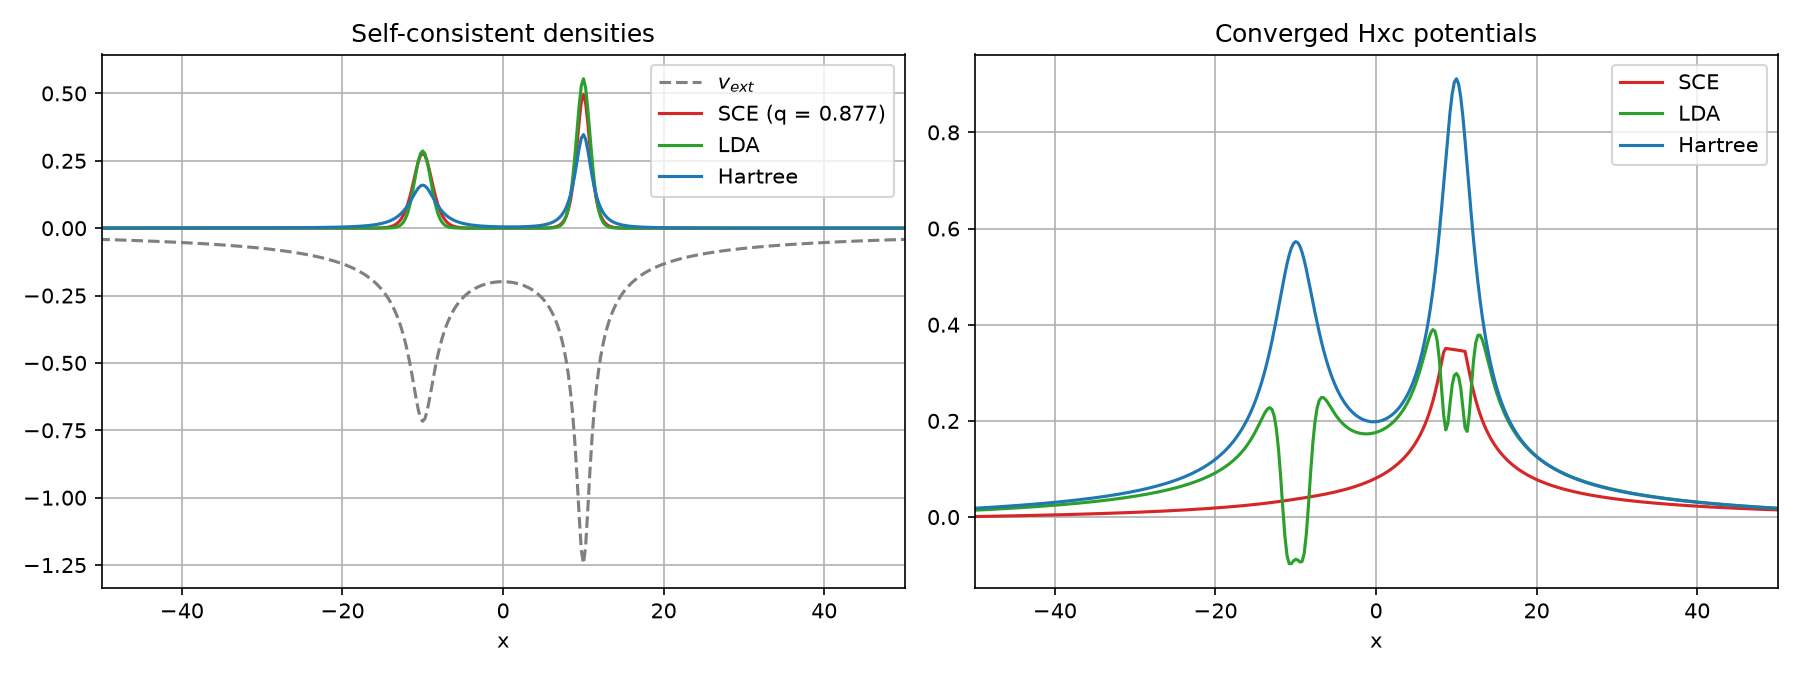
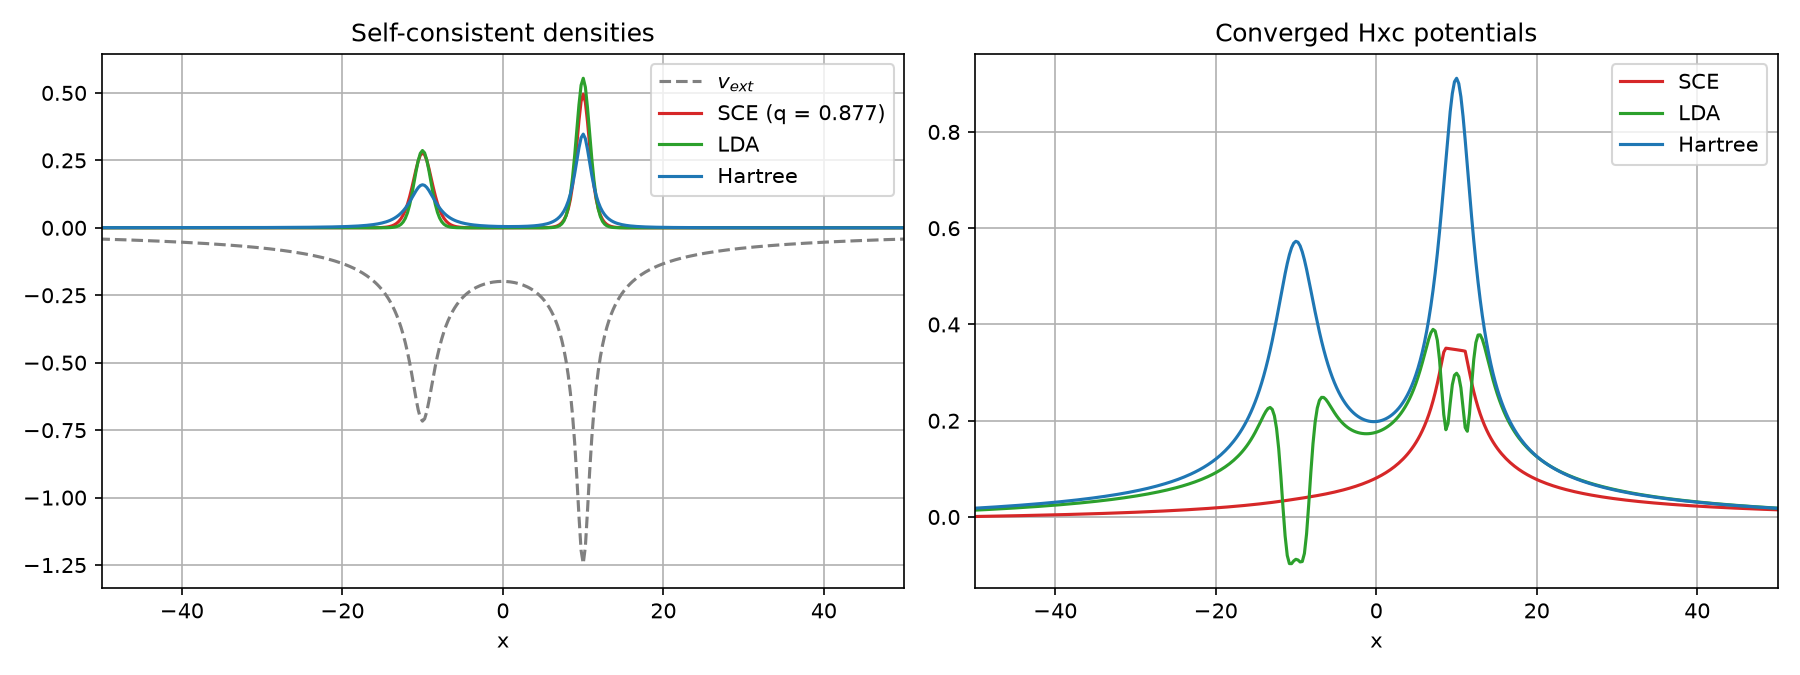
move setup to config.toml

diff --git a/main_fixed.py b/main_fixed.py
@@ -31,15 +31,19 @@ The stable formulation used here:
 The weakly-correlated functionals (LDA, Hartree, EXX) go through a standard
 aufbau DIIS SCF with damping and a level shift instead.
 
-The script runs every functional in `functionals`, prints a comparison
-table and overlays the densities and Hxc potentials in one figure
-(ks_comparison.png).
+All settings live in config.toml next to this script: geometry (per-well
+softening and depth, so homo- and heteronuclear setups are both one edit
+away), grid, e-e interaction and the list of Hxc functionals to run
+("SCE", "LDA", "Hartree", "EXX").  The script runs every requested
+functional, prints a comparison table and overlays the densities and Hxc
+potentials in one figure (ks_comparison.png).
 
-Run:  python main_fixed.py [--show]
+Run:  python main_fixed.py [other_config.toml] [--show]
 """
 
 import os
 import sys
+import tomllib
 
 import numpy as np
 import scipy.linalg
@@ -54,52 +58,105 @@ import OneDKSSCE
 np.set_printoptions(precision=6)
 
 # ---------------------------------------------------------------------------
-# Parameters
+# Configuration (config.toml)
 # ---------------------------------------------------------------------------
-nbPts = 600                     # number of grid points
-b = 0.6                         # softening parameter of the e-e interaction
-wint = OneDKSSCE.softCoulomb    # softCoulomb / absCoulomb / wireCoulomb
-R = 10.0                        # nuclei at -R and +R
-L = 8 * (R + 10)                # box length
-site_softening = [2.25, 0.7]    # softening of the external wells at -R and +R
-N = 2                           # electrons
-functionals = ("SCE", "LDA", "Hartree")   # runs each; "EXX" also available
+AVAILABLE_FUNCTIONALS = ("SCE", "LDA", "Hartree", "EXX")
+AVAILABLE_INTERACTIONS = ("softCoulomb", "absCoulomb", "wireCoulomb")
+DEFAULT_CONFIG = os.path.join(os.path.dirname(os.path.abspath(__file__)),
+                              "config.toml")
+
 functional = "SCE"              # current functional (set by main)
 
-max_cycle = 300                 # inner SCF cycles
-conv_tol = 1e-10                # inner SCF: target on the density change
-conv_accept = 1e-6              # inner SCF: acceptance threshold for the best
-                                # iterate; exactly at the level degeneracy the
-                                # grid SCE potential limits self-consistency
-                                # to ~1e-7 in the density
-diis_space = 8                  # size of the DIIS subspace
-diis_engage = 1e-3              # engage DIIS once drho falls below this;
-                                # in the earlier nonlinear regime plain damping
-                                # is more robust, in the linear regime DIIS
-                                # kills the soft charge-transfer mode
-mixing = 0.2                    # linear density mixing before DIIS engages
 
-# aufbau SCF (Hartree/EXX only)
-aufbau_max_cycle = 500
-aufbau_mixing = 0.1
-level_shift = 0.3               # virtual-level shift; keeps the occupied
-                                # orbital from flipping when HOMO and LUMO
-                                # get close (does not change the fixed point)
-q_scan = np.arange(0.0, N + 1e-9, 0.25)   # coarse scan of the charge split
-align_tol = 1e-5                # outer bisection: threshold on the q bracket
-                                # (E is stationary at q*, so the E error is
-                                # ~ curvature * align_tol^2 ~ 1e-10)
+def load_config(path=DEFAULT_CONFIG):
+    """Read a TOML settings file, validate it and (re)build the module
+    state.  Every parameter of the calculation is set here."""
+    global nbPts, b, wint, N, functionals
+    global max_cycle, conv_tol, conv_accept, diis_space, diis_engage, mixing
+    global aufbau_max_cycle, aufbau_mixing, level_shift, q_scan, align_tol
 
-assert N == 2, "the energy expressions assume a 2-electron system"
+    with open(path, "rb") as f:
+        cfg = tomllib.load(f)
+
+    system = cfg["system"]
+    N = system["N"]
+    assert N == 2, "the energy expressions assume a 2-electron system"
+    b = system["b"]
+    interaction = system["interaction"]
+    if interaction not in AVAILABLE_INTERACTIONS:
+        raise ValueError(f"unknown interaction {interaction!r}; "
+                         f"choose from {AVAILABLE_INTERACTIONS}")
+    wint = getattr(OneDKSSCE, interaction)
+
+    functionals = tuple(cfg["functionals"]["run"])
+    unknown = [f for f in functionals if f not in AVAILABLE_FUNCTIONALS]
+    if unknown:
+        raise ValueError(f"unknown functional(s) {unknown}; "
+                         f"choose from {AVAILABLE_FUNCTIONALS}")
+
+    wells = cfg["wells"]
+    if not (len(wells["softening"]) == len(wells["depth"]) == 2):
+        raise ValueError("wells.softening and wells.depth must have 2 entries "
+                         "(wells at -R and +R)")
+
+    grid = cfg["grid"]
+    nbPts = grid["nbPts"]
+
+    scf = cfg["scf"]
+    max_cycle = scf["max_cycle"]        # inner SCF cycles
+    conv_tol = scf["conv_tol"]          # target on the density change
+    conv_accept = scf["conv_accept"]    # acceptance threshold for the best
+                                        # iterate; exactly at the level
+                                        # degeneracy the grid SCE potential
+                                        # limits self-consistency to ~1e-7
+    diis_space = scf["diis_space"]
+    diis_engage = scf["diis_engage"]    # engage DIIS below this drho; in the
+                                        # earlier nonlinear regime plain
+                                        # damping is more robust, in the
+                                        # linear regime DIIS kills the soft
+                                        # charge-transfer mode
+    mixing = scf["mixing"]              # linear mixing before DIIS engages
+
+    aufbau = scf["aufbau"]              # closed-shell SCF (LDA/Hartree/EXX)
+    aufbau_max_cycle = aufbau["max_cycle"]
+    aufbau_mixing = aufbau["mixing"]
+    level_shift = aufbau["level_shift"] # keeps the occupied orbital from
+                                        # flipping when HOMO and LUMO get
+                                        # close (does not move the fixed point)
+
+    ensemble = scf["ensemble"]          # SCE outer loop over the charge split
+    q_scan = np.arange(0.0, N + 1e-9, ensemble["q_step"])
+    align_tol = ensemble["align_tol"]   # bisection threshold on the q bracket
+                                        # (E is stationary at q*, so the E
+                                        # error is ~ curvature * align_tol^2)
+
+    global out_figure
+    out_figure = cfg.get("output", {}).get("figure", "ks_comparison.png")
+
+    # full parsed file, so companion scripts can read their own sections
+    global config
+    config = cfg
+
+    set_geometry(R_new=wells["R"], site_softening_new=wells["softening"],
+                 site_depth_new=wells["depth"], L_new=grid.get("L"))
+
+
+def well_character():
+    """'homonuclear' if the two wells are identical, else 'heteronuclear'."""
+    return ("homonuclear"
+            if site_softening[0] == site_softening[1]
+            and site_depth[0] == site_depth[1]
+            else "heteronuclear")
 
 # ---------------------------------------------------------------------------
 # Grid and one-body Hamiltonian
 # ---------------------------------------------------------------------------
-def set_geometry(R_new=None, site_softening_new=None, nbPts_new=None, L_new=None):
+def set_geometry(R_new=None, site_softening_new=None, nbPts_new=None, L_new=None,
+                 site_depth_new=None):
     """(Re)build the grid-dependent module state.  Companion scripts call
     this to change the geometry (e.g. to stretch the molecule)."""
-    global R, site_softening, nbPts, L, x, delta, weights, kin, vext, h1
-    global ref_left, ref_right, _coulomb_matrix
+    global R, site_softening, site_depth, nbPts, L, x, delta, weights
+    global kin, vext, h1, ref_left, ref_right, _coulomb_matrix
 
     if R_new is not None:
         R = R_new
@@ -108,6 +165,8 @@ def set_geometry(R_new=None, site_softening_new=None, nbPts_new=None, L_new=None
         L = L_new
     if site_softening_new is not None:
         site_softening = site_softening_new
+    if site_depth_new is not None:
+        site_depth = site_depth_new
     if nbPts_new is not None:
         nbPts = nbPts_new
 
@@ -116,19 +175,23 @@ def set_geometry(R_new=None, site_softening_new=None, nbPts_new=None, L_new=None
     weights = np.full(nbPts, delta)
 
     kin = OneDKSSCE.kinetic(nbPts, delta, 1)
-    vext = OneDKSSCE.vExtMol_reduced(x, [-R, R], wint, site_softening)
+    # v_ext(x) = -sum_i Z_i w(|x - X_i|, b_i) with wells at -R and +R
+    wells = list(zip((-R, R), site_softening, site_depth))
+    vext = -sum(Z * np.asarray(wint(np.abs(x - X), bs)) for X, bs, Z in wells)
     h1 = kin + np.diag(vext)
     _coulomb_matrix = None
 
     # Ground states of the isolated wells: initial guess and references for
     # tracking the left/right frontier orbitals through the SCF.
-    _, C = scipy.linalg.eigh(kin - np.diag(np.asarray(wint(np.abs(x + R), site_softening[0]))))
-    ref_left = C[:, 0]
-    _, C = scipy.linalg.eigh(kin - np.diag(np.asarray(wint(np.abs(x - R), site_softening[1]))))
-    ref_right = C[:, 0]
+    refs = []
+    for X, bs, Z in wells:
+        _, C = scipy.linalg.eigh(kin - np.diag(Z * np.asarray(wint(np.abs(x - X), bs))))
+        refs.append(C[:, 0])
+    ref_left, ref_right = refs
 
 
-set_geometry()
+site_depth = [1.0, 1.0]
+load_config()
 
 # ---------------------------------------------------------------------------
 # Hxc potential and energies
@@ -342,6 +405,8 @@ def scf_aufbau(verbose=False):
 # ---------------------------------------------------------------------------
 def run():
     print(f"KS-{functional}: {nbPts} points, L = {L}, R = {R}, b = {b}, N = {N}")
+    print(f"Wells at +/-R ({well_character()}): softening {list(site_softening)}, "
+          f"depth {list(site_depth)}")
 
     if functional != "SCE":
         res = scf_aufbau()
@@ -438,8 +503,7 @@ def plot_comparison(results, show):
         ax.grid()
         ax.legend()
     fig.tight_layout()
-    out = os.path.join(os.path.dirname(os.path.abspath(__file__)),
-                       'ks_comparison.png')
+    out = os.path.join(os.path.dirname(os.path.abspath(__file__)), out_figure)
     fig.savefig(out, dpi=150)
     print(f"\nComparison plot saved to {out}")
     if show:
@@ -470,4 +534,7 @@ def main(show=False):
 
 
 if __name__ == "__main__":
+    args = [a for a in sys.argv[1:] if a != "--show"]
+    if args:
+        load_config(args[0])
     main(show="--show" in sys.argv)

diff --git a/homonuclear_stretch.py b/homonuclear_stretch.py
@@ -1,16 +1,19 @@
 #!/usr/bin/env python
-"""Stretching a homonuclear molecule: SCE vs LDA vs Hartree.
+"""Stretching a two-well molecule: ground state vs bond distance.
 
-Both external wells are identical (softening 0.7), so by symmetry the
-dissociated molecule holds exactly one electron per well.  For each bond
-distance R and each functional two candidate solutions are converged with
-the machinery of main_fixed.py:
+All settings come from the [stretch] section of config.toml: the bond
+distances, the per-well softening and depth (identical wells = homonuclear,
+where by symmetry the dissociated molecule holds exactly one electron per
+well), the grid spacing and the functionals to compare.  For each distance
+R and each functional two candidate solutions are converged with the
+machinery of main_fixed.py:
 
   * the closed-shell aufbau state, occupations (2, 0);
   * the q = 1 ensemble state, occupations (1, 1);
 
 and the converged candidate with the lowest energy is the ground state.
-Three distances illustrate the three regimes of the SCE solution:
+The three default distances illustrate the three regimes of the SCE
+solution for the homonuclear molecule:
 
   R = 2   covalent bond      aufbau ground state, open gap,
                              large midbond density
@@ -20,10 +23,10 @@ Three distances illustrate the three regimes of the SCE solution:
   R = 10  dissociated        one electron per well, gap ~ 0, two
                              independent "atoms"
 
-Output: 2x3 figure (top: densities, bottom: Hxc potentials), one column
-per distance, occupations of each solution in the legend.
+Output: 2 x n_distances figure (top: densities, bottom: Hxc potentials),
+one column per distance, occupations of each solution in the legend.
 
-Run:  python homonuclear_stretch.py [--show]
+Run:  python homonuclear_stretch.py [other_config.toml] [--show]
 """
 
 import os
@@ -35,12 +38,28 @@ import matplotlib.pyplot as plt
 sys.path.insert(0, os.path.dirname(os.path.abspath(__file__)))
 import main_fixed as m
 
-softening = [0.7, 0.7]          # identical wells: homonuclear
-distances = [(2.0, "covalent bond"),
-             (4.0, "transition"),
-             (10.0, "dissociated")]
-functionals = ("SCE", "LDA", "Hartree")
-dx = 0.2667                     # grid spacing, kept fixed while L grows
+
+def stretch_settings():
+    """Read the [stretch] section of the loaded config, with the original
+    homonuclear study as the default for anything left unspecified."""
+    s = m.config.get("stretch", {})
+    settings = dict(
+        distances=s.get("distances", [2.0, 4.0, 10.0]),
+        softening=s.get("softening", [0.7, 0.7]),
+        depth=s.get("depth", [1.0, 1.0]),
+        dx=s.get("dx", 0.2667),        # grid spacing, fixed while L grows
+        functionals=tuple(s.get("functionals", m.functionals)),
+        figure=s.get("figure", "homonuclear_stretch.png"),
+    )
+    labels = s.get("labels", [])
+    settings["labels"] = (labels if len(labels) == len(settings["distances"])
+                          else [""] * len(settings["distances"]))
+    unknown = [f for f in settings["functionals"]
+               if f not in m.AVAILABLE_FUNCTIONALS]
+    if unknown:
+        raise ValueError(f"unknown functional(s) {unknown} in [stretch]; "
+                         f"choose from {m.AVAILABLE_FUNCTIONALS}")
+    return settings
 
 
 def solve(functional):
@@ -69,17 +88,21 @@ def solve(functional):
 
 
 def main(show=False):
-    print(f"Homonuclear stretch (wells: softening {softening})")
-    print(f"{'R':>5} {'functional':>10} {'occ':>7} {'E_tot':>13} "
-          f"{'gap':>10} {'drho':>9}")
+    s = stretch_settings()
 
     columns = []
-    for R, regime in distances:
+    for icol, (R, regime) in enumerate(zip(s["distances"], s["labels"])):
         L = 8 * (R + 10)
-        m.set_geometry(R_new=R, site_softening_new=softening,
-                       nbPts_new=int(round(L / dx)))
+        m.set_geometry(R_new=R, site_softening_new=s["softening"],
+                       site_depth_new=s["depth"],
+                       nbPts_new=int(round(L / s["dx"])))
+        if icol == 0:
+            print(f"Stretch study ({m.well_character()} wells: "
+                  f"softening {s['softening']}, depth {s['depth']})")
+            print(f"{'R':>5} {'functional':>10} {'occ':>7} {'E_tot':>13} "
+                  f"{'gap':>10} {'drho':>9}")
         results = []
-        for functional in functionals:
+        for functional in s["functionals"]:
             res = solve(functional)
             if res is None:
                 print(f"{R:5.1f} {functional:>10}   [no converged solution]")
@@ -91,7 +114,7 @@ def main(show=False):
                             vext=m.vext.copy(), results=results))
 
     fig, axes = plt.subplots(2, len(columns), figsize=(13, 7),
-                             sharex='col', sharey='row')
+                             sharex='col', sharey='row', squeeze=False)
     for icol, col in enumerate(columns):
         ax_rho, ax_pot = axes[0, icol], axes[1, icol]
         ax_rho.plot(col["x"], col["vext"], color='0.5', ls='--',
@@ -102,7 +125,8 @@ def main(show=False):
             ax_rho.plot(col["x"], res["rho"], color=color, label=label)
             ax_pot.plot(col["x"], res["vhxc"], color=color, label=label)
         R = col["R"]
-        ax_rho.set(title=f'R = {R:g}  ({col["regime"]})', xlim=(-R - 14, R + 14))
+        title = f'R = {R:g}' + (f'  ({col["regime"]})' if col["regime"] else '')
+        ax_rho.set(title=title, xlim=(-R - 14, R + 14))
         ax_pot.set(xlabel='x')
         for ax in (ax_rho, ax_pot):
             ax.grid()
@@ -110,11 +134,11 @@ def main(show=False):
         ax_pot.legend(fontsize=8, loc='upper left')
     axes[0, 0].set_ylabel(r'density, $v_{ext}$')
     axes[1, 0].set_ylabel(r'$v_{Hxc}$')
-    fig.suptitle('Homonuclear stretch: SCE vs LDA vs Hartree '
-                 '(occupations of the ground state in the legend)')
+    fig.suptitle(f'{m.well_character().capitalize()} stretch: '
+                 + ' vs '.join(s["functionals"])
+                 + ' (occupations of the ground state in the legend)')
     fig.tight_layout()
-    out = os.path.join(os.path.dirname(os.path.abspath(__file__)),
-                       'homonuclear_stretch.png')
+    out = os.path.join(os.path.dirname(os.path.abspath(__file__)), s["figure"])
     fig.savefig(out, dpi=150)
     print(f"\nPlot saved to {out}")
     if show:
@@ -122,4 +146,7 @@ def main(show=False):
 
 
 if __name__ == "__main__":
+    args = [a for a in sys.argv[1:] if a != "--show"]
+    if args:
+        m.load_config(args[0])
     main(show="--show" in sys.argv)